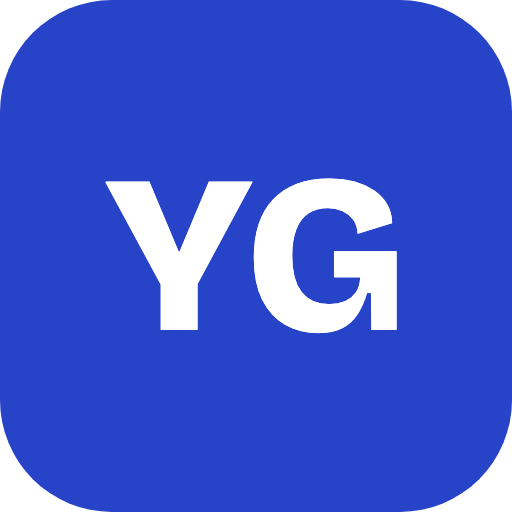
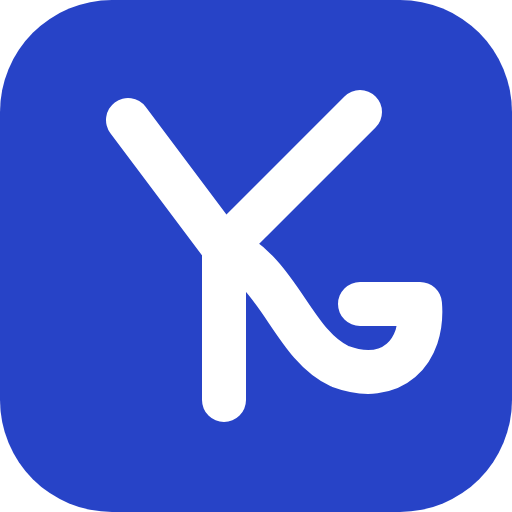
feat: özgün YG Bağı logosu — elle çizilmiş SVG monogram
Y'nin sağ kolu kavşaktan G'nin çanağına akan tek çizgi (ligature);
kobalt yuvarlak kare, 2 iterasyonda rafine. favicon.svg = kaynak;
7 sayfanın header'ına logo-isaret, footer'a işaret; PWA ikonları
(512/180) SVG'den yeniden üretildi.

Changed region(s): [[0.1875, 0.1562, 0.875, 0.8438]]

diff --git a/css/styles.css b/css/styles.css
@@ -200,6 +200,9 @@ html[data-tema="gunduz"] .site-header {
 .site-header > * { max-width: var(--sayfa-genislik); }
 
 .logo {
+  display: inline-flex;
+  align-items: center;
+  gap: 0.6rem;
   font-family: var(--serif);
   font-weight: 800;
   font-size: 1.7rem;
@@ -207,6 +210,13 @@ html[data-tema="gunduz"] .site-header {
   color: var(--murekkep);
   text-decoration: none;
   text-shadow: 0 0 18px rgba(107, 139, 255, 0.35);
+}
+
+.logo-isaret {
+  width: 32px;
+  height: 32px;
+  flex: none;
+  filter: drop-shadow(0 0 10px rgba(107, 139, 255, 0.35));
 }
 
 .logo::after {
@@ -878,16 +888,9 @@ main {
 }
 
 .footer-logo {
-  display: inline-grid;
-  place-items: center;
+  display: block;
   width: 44px;
   height: 44px;
-  border-radius: 12px;
-  background: var(--vurgu-derin);
-  color: #fff;
-  font-family: var(--serif);
-  font-weight: 800;
-  font-size: 1.15rem;
 }
 
 .footer-slogan {

diff --git a/404.html b/404.html
@@ -15,7 +15,7 @@
 <body>
   <a class="atla" href="#icerik-statik">İçeriğe atla</a>
   <header class="site-header">
-    <a class="logo" href="index.html">Yan Görev</a>
+    <a class="logo" href="index.html"><img class="logo-isaret" src="favicon.svg" alt="">Yan Görev</a>
     <nav>
       <a href="index.html#incelemeler">İncelemeler</a>
       <a href="forum.html">Forum</a>
@@ -37,7 +37,7 @@
   <footer class="site-footer">
     <div class="footer-ust">
       <div class="footer-marka">
-        <span class="footer-logo">YG</span>
+        <img class="footer-logo" src="favicon.svg" alt="Yan Görev logosu">
         <p class="footer-slogan">Oyun biter, sohbet başlar.</p>
       </div>
       <nav class="footer-kolon" aria-label="Bölümler">

diff --git a/forum.html b/forum.html
@@ -24,7 +24,7 @@
 <body>
   <a class="atla" href="#icerik">İçeriğe atla</a>
   <header class="site-header">
-    <a class="logo" href="index.html">Yan Görev</a>
+    <a class="logo" href="index.html"><img class="logo-isaret" src="favicon.svg" alt="">Yan Görev</a>
     <nav>
       <a href="index.html#incelemeler">İncelemeler</a>
       <a href="forum.html">Forum</a>
@@ -36,7 +36,7 @@
   <footer class="site-footer">
     <div class="footer-ust">
       <div class="footer-marka">
-        <span class="footer-logo">YG</span>
+        <img class="footer-logo" src="favicon.svg" alt="Yan Görev logosu">
         <p class="footer-slogan">Oyun biter, sohbet başlar.</p>
       </div>
       <nav class="footer-kolon" aria-label="Bölümler">

diff --git a/index.html b/index.html
@@ -25,7 +25,7 @@
 <body>
   <a class="atla" href="#icerik">İçeriğe atla</a>
   <header class="site-header">
-    <a class="logo" href="index.html">Yan Görev</a>
+    <a class="logo" href="index.html"><img class="logo-isaret" src="favicon.svg" alt="">Yan Görev</a>
     <nav>
       <a href="index.html#incelemeler">İncelemeler</a>
       <a href="forum.html">Forum</a>
@@ -45,7 +45,7 @@
   <footer class="site-footer">
     <div class="footer-ust">
       <div class="footer-marka">
-        <span class="footer-logo">YG</span>
+        <img class="footer-logo" src="favicon.svg" alt="Yan Görev logosu">
         <p class="footer-slogan">Oyun biter, sohbet başlar.</p>
       </div>
       <nav class="footer-kolon" aria-label="Bölümler">

diff --git a/ipuclari.html b/ipuclari.html
@@ -24,7 +24,7 @@
 <body>
   <a class="atla" href="#icerik">İçeriğe atla</a>
   <header class="site-header">
-    <a class="logo" href="index.html">Yan Görev</a>
+    <a class="logo" href="index.html"><img class="logo-isaret" src="favicon.svg" alt="">Yan Görev</a>
     <nav>
       <a href="index.html#incelemeler">İncelemeler</a>
       <a href="forum.html">Forum</a>
@@ -36,7 +36,7 @@
   <footer class="site-footer">
     <div class="footer-ust">
       <div class="footer-marka">
-        <span class="footer-logo">YG</span>
+        <img class="footer-logo" src="favicon.svg" alt="Yan Görev logosu">
         <p class="footer-slogan">Oyun biter, sohbet başlar.</p>
       </div>
       <nav class="footer-kolon" aria-label="Bölümler">

diff --git a/konu.html b/konu.html
@@ -24,7 +24,7 @@
 <body>
   <a class="atla" href="#icerik">İçeriğe atla</a>
   <header class="site-header">
-    <a class="logo" href="index.html">Yan Görev</a>
+    <a class="logo" href="index.html"><img class="logo-isaret" src="favicon.svg" alt="">Yan Görev</a>
     <nav>
       <a href="index.html#incelemeler">İncelemeler</a>
       <a href="forum.html">Forum</a>
@@ -36,7 +36,7 @@
   <footer class="site-footer">
     <div class="footer-ust">
       <div class="footer-marka">
-        <span class="footer-logo">YG</span>
+        <img class="footer-logo" src="favicon.svg" alt="Yan Görev logosu">
         <p class="footer-slogan">Oyun biter, sohbet başlar.</p>
       </div>
       <nav class="footer-kolon" aria-label="Bölümler">

diff --git a/oyun.html b/oyun.html
@@ -24,7 +24,7 @@
 <body>
   <a class="atla" href="#icerik">İçeriğe atla</a>
   <header class="site-header">
-    <a class="logo" href="index.html">Yan Görev</a>
+    <a class="logo" href="index.html"><img class="logo-isaret" src="favicon.svg" alt="">Yan Görev</a>
     <nav>
       <a href="index.html#incelemeler">İncelemeler</a>
       <a href="forum.html">Forum</a>
@@ -36,7 +36,7 @@
   <footer class="site-footer">
     <div class="footer-ust">
       <div class="footer-marka">
-        <span class="footer-logo">YG</span>
+        <img class="footer-logo" src="favicon.svg" alt="Yan Görev logosu">
         <p class="footer-slogan">Oyun biter, sohbet başlar.</p>
       </div>
       <nav class="footer-kolon" aria-label="Bölümler">

diff --git a/uye.html b/uye.html
@@ -24,7 +24,7 @@
 <body>
   <a class="atla" href="#icerik">İçeriğe atla</a>
   <header class="site-header">
-    <a class="logo" href="index.html">Yan Görev</a>
+    <a class="logo" href="index.html"><img class="logo-isaret" src="favicon.svg" alt="">Yan Görev</a>
     <nav>
       <a href="index.html#incelemeler">İncelemeler</a>
       <a href="forum.html">Forum</a>
@@ -36,7 +36,7 @@
   <footer class="site-footer">
     <div class="footer-ust">
       <div class="footer-marka">
-        <span class="footer-logo">YG</span>
+        <img class="footer-logo" src="favicon.svg" alt="Yan Görev logosu">
         <p class="footer-slogan">Oyun biter, sohbet başlar.</p>
       </div>
       <nav class="footer-kolon" aria-label="Bölümler">
